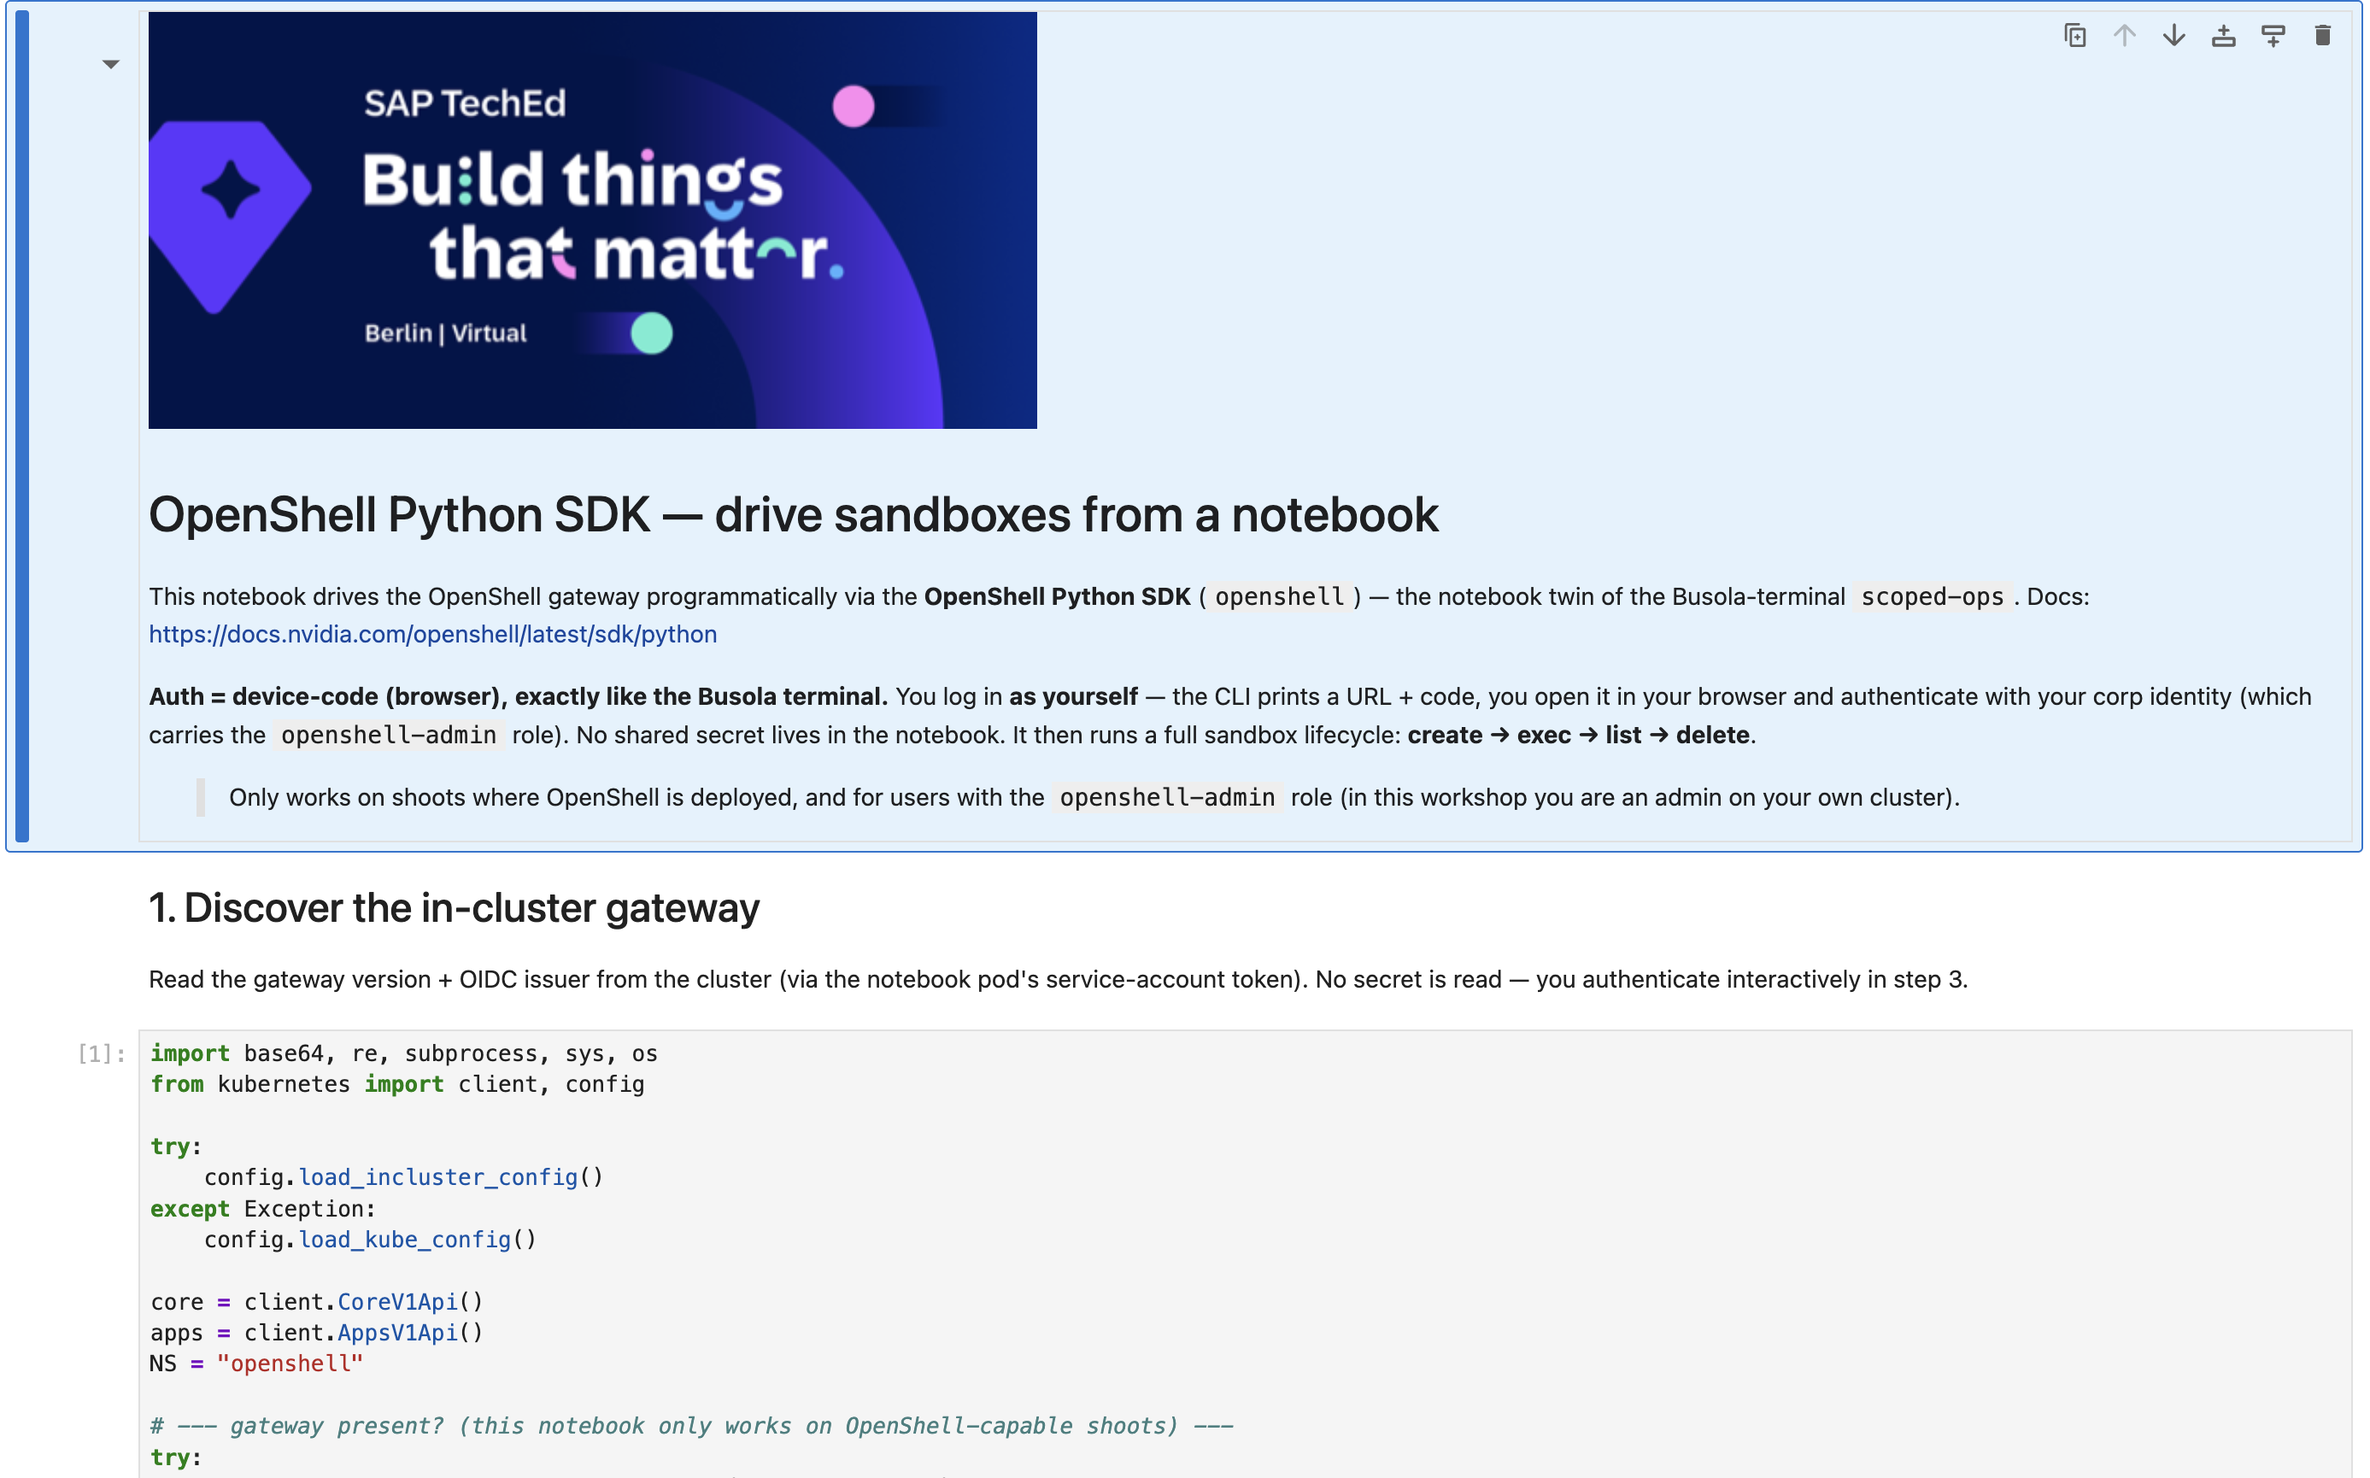
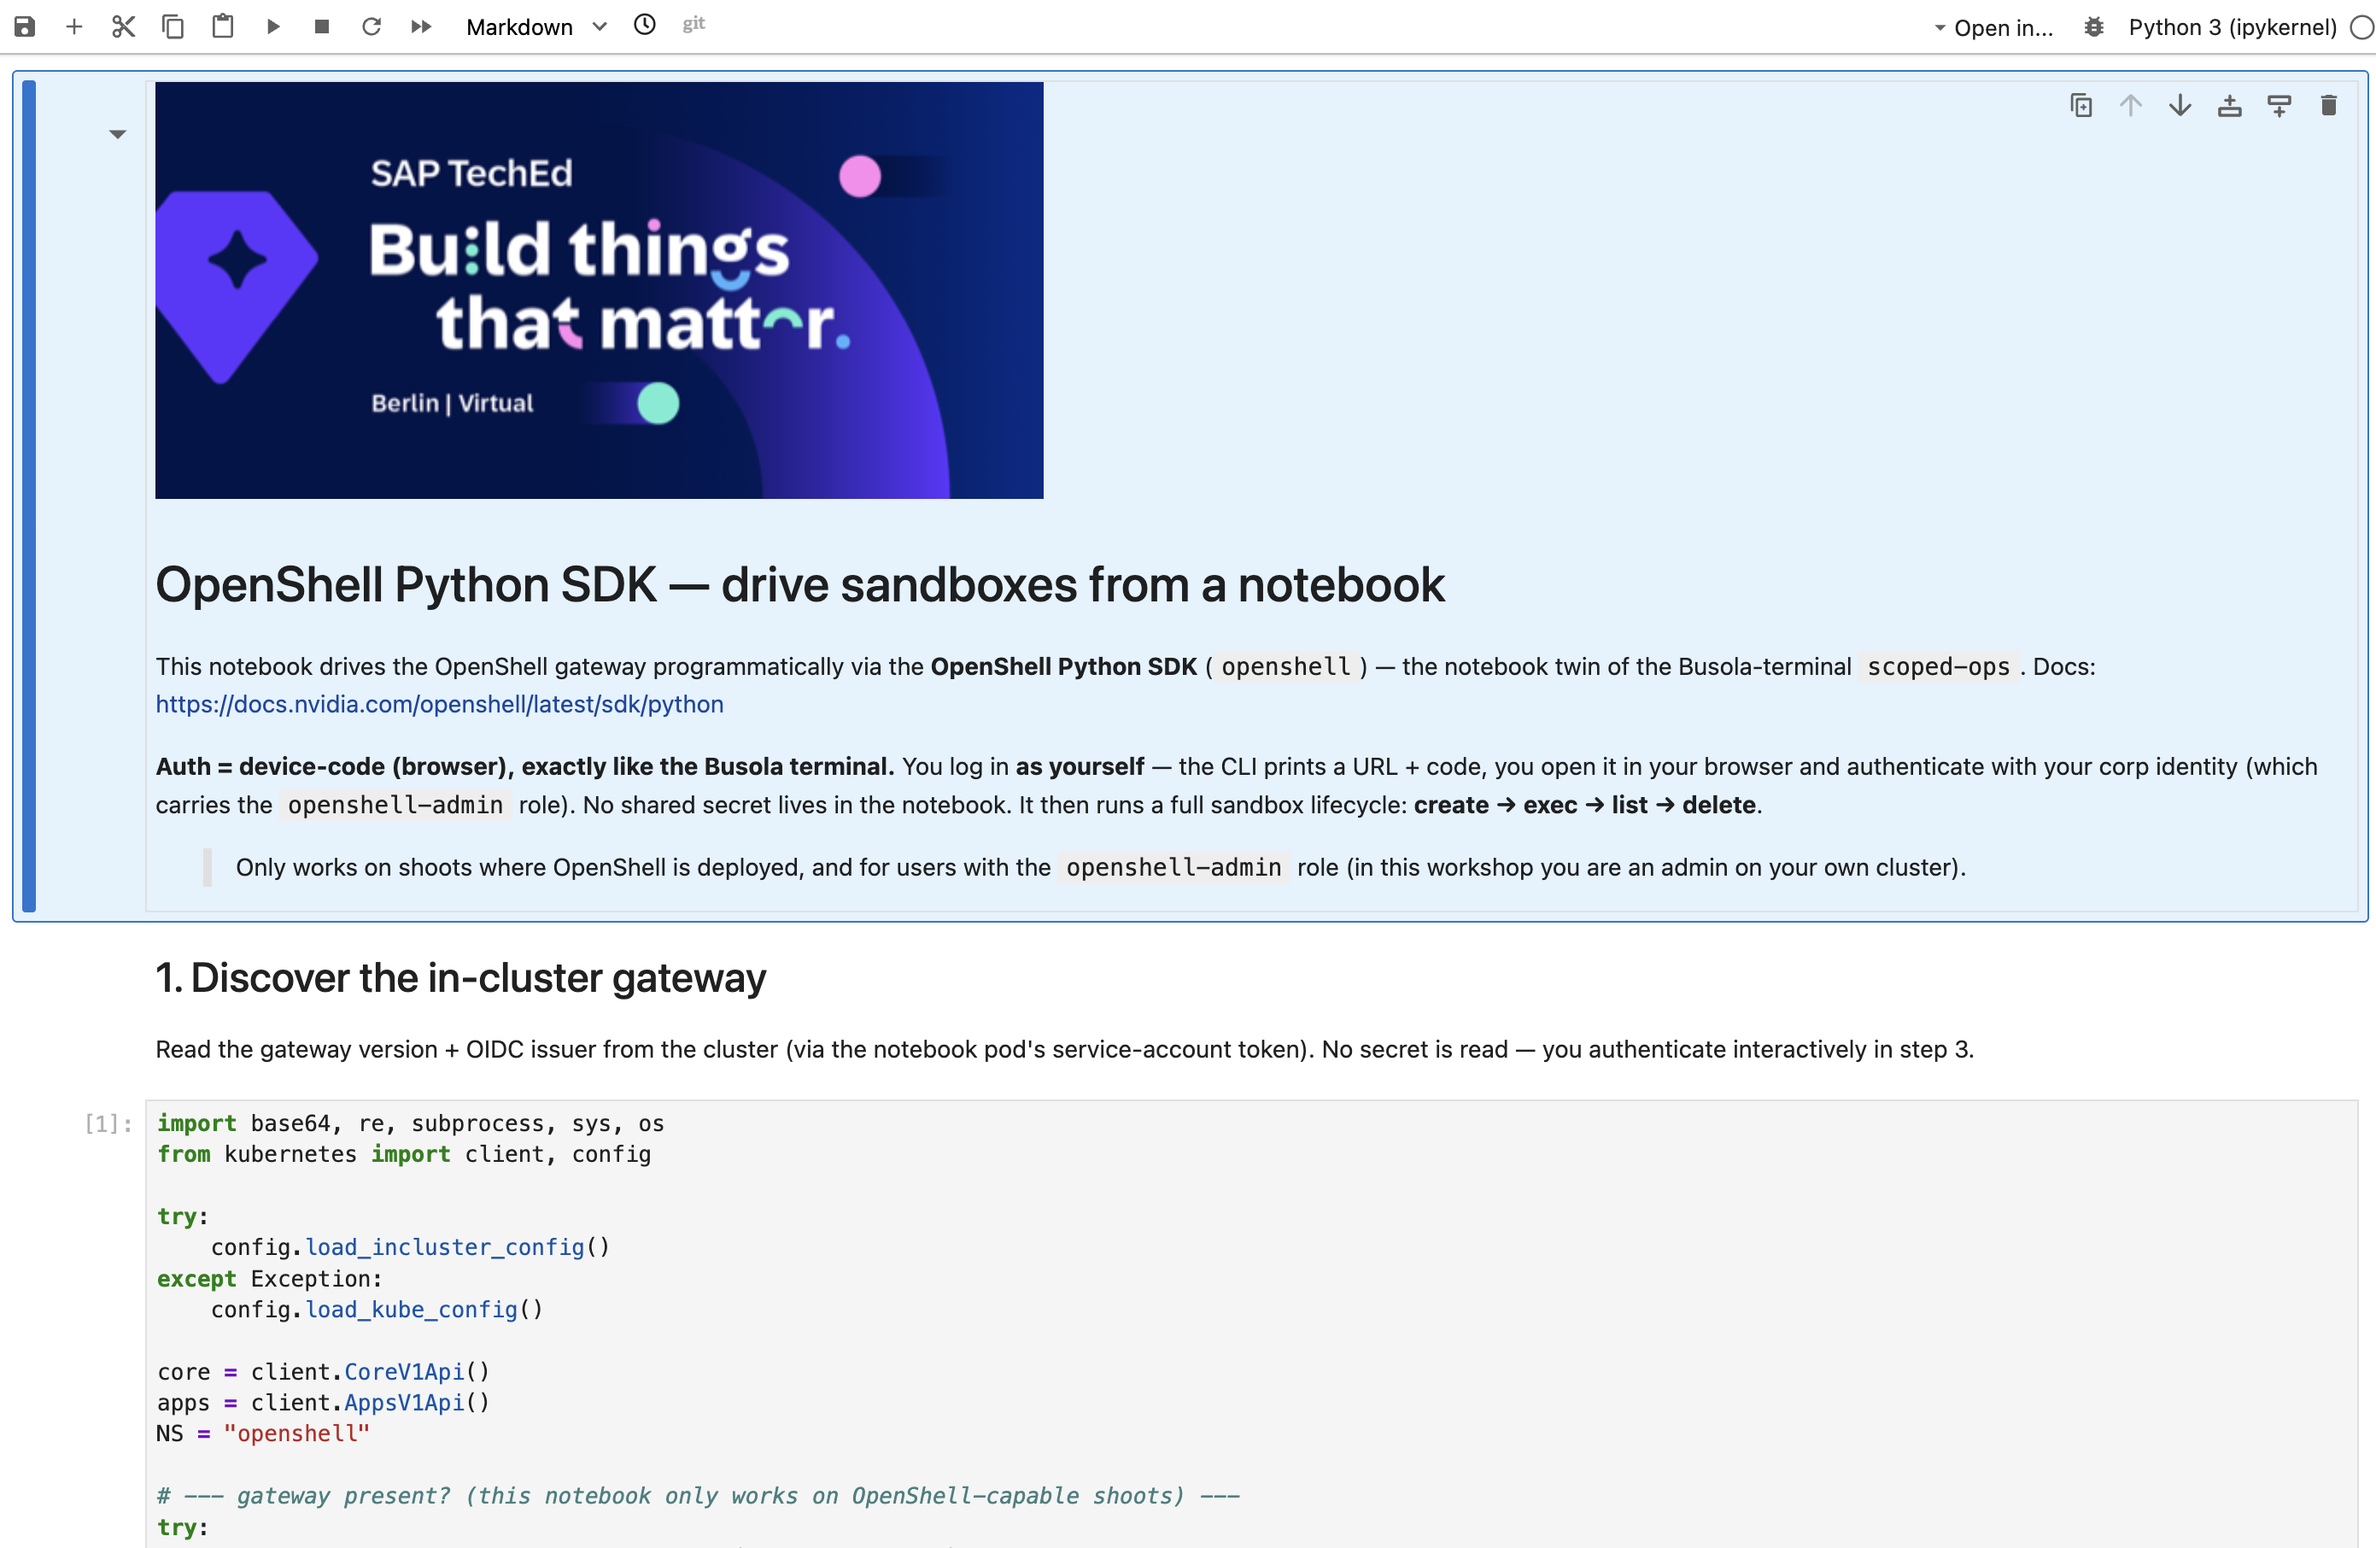
docs(ex3.2): expand Run-All-Cells TIP to call out the toolbar buttons (▶ play per cell, ⏩ fast-forward for Run All); refresh notebook-01 screenshot now showing the toolbar

Changed region(s): [[0.0, 0.0, 1.0, 0.9988]]

diff --git a/exercises/ex3/README.md b/exercises/ex3/README.md
@@ -62,7 +62,7 @@
 
 > [!TIP]
 > - ✅ The notebooks are **self-explanatory** — read the markdown cells as you go.
-> - ✅ Run them cell by cell with <kbd>Shift</kbd>+<kbd>Enter</kbd>, or in one go via the top menu **Run → Run All Cells** (or **Kernel → Restart Kernel and Run All Cells…** for a clean state).
+> - ✅ Run them cell by cell with the **▶ play** button (or <kbd>Shift</kbd>+<kbd>Enter</kbd>), or in one go via the **⏩ fast-forward** button in the toolbar — same as the top menu **Run → Run All Cells** (or **Kernel → Restart Kernel and Run All Cells…** for a clean state).
 
 <table style="width: 100%; border-collapse: collapse; background-color: #f5f5f5;" border="1">
 <tbody>
